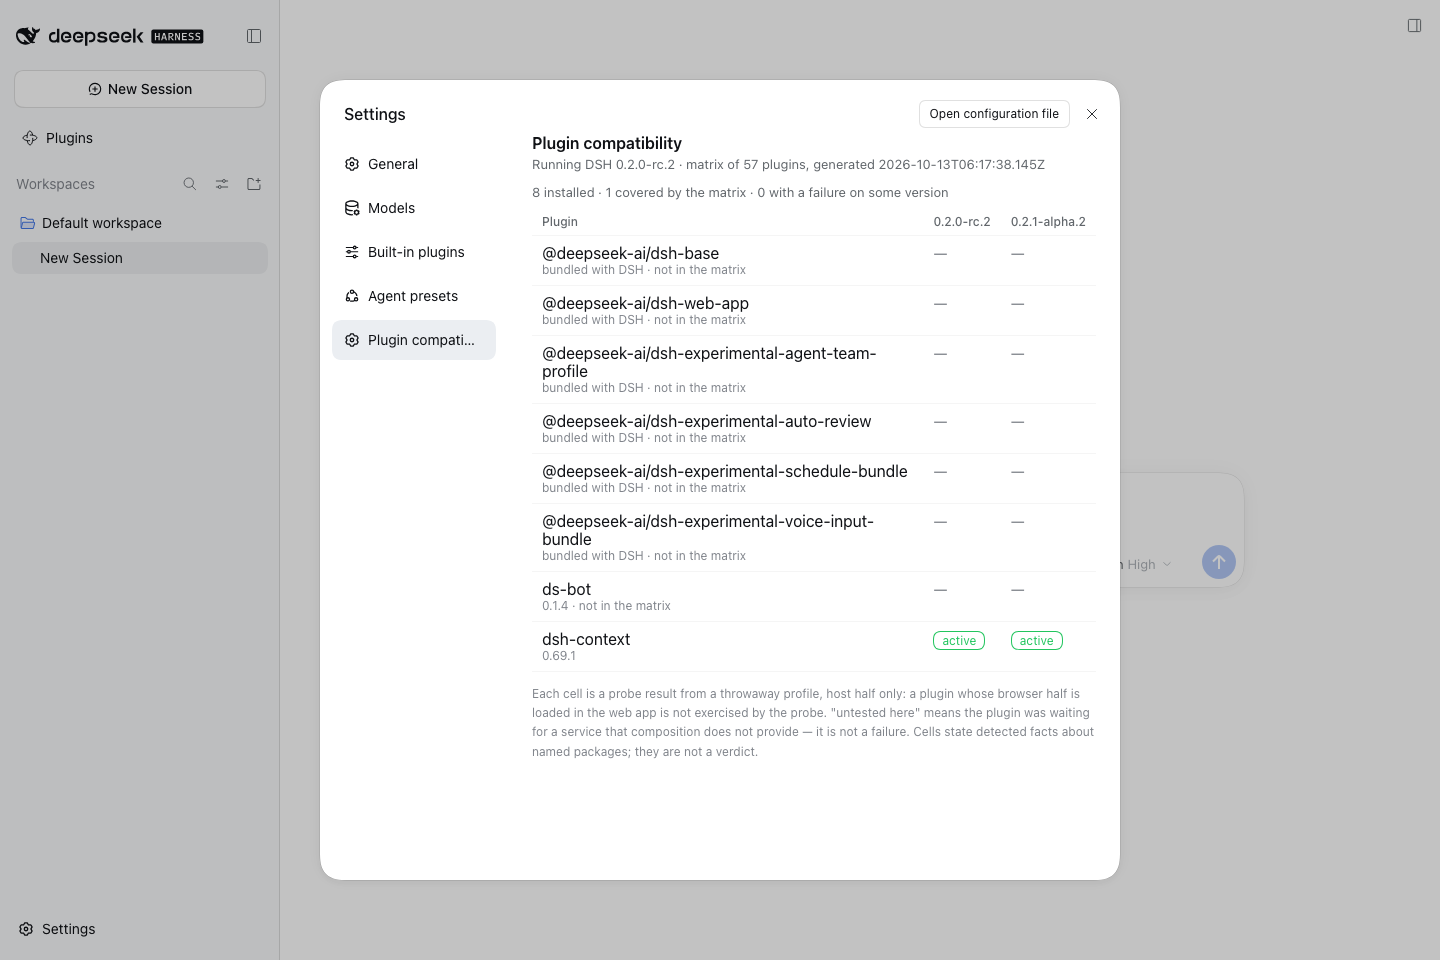
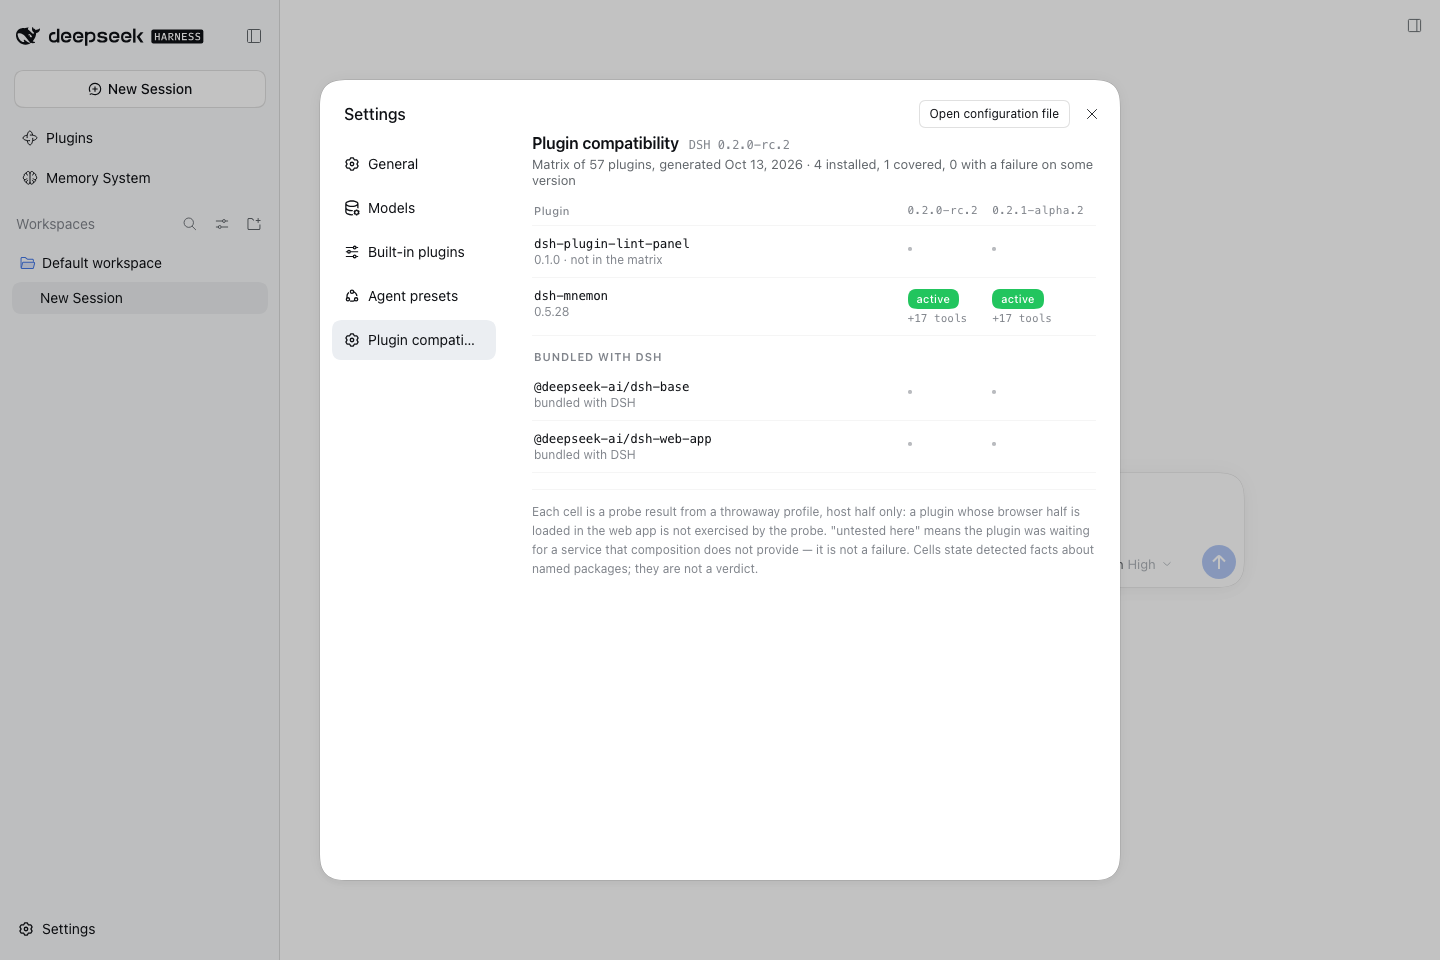
feat(panel): redesign the settings section, and fix two data bugs it revealed
Visual: the panel now reads as part of the settings page instead of a
pasted report — type weight and grey steps instead of boxed grid, a filled
pill for a verdict (the host's own weight for state), a 4px dot for
"not covered", a subdued "Bundled with DSH" group instead of a page of
identical dashes, and the machine timestamp formatted as a date.

Data, found by the redesign's own screenshots:

- DSH_PROFILE_DIR is contributed by dsh-shell-env, which a web composition
  does not mount, so the panel listed nothing. The directory is derivable
  from DSH_HOME + the launcher's --profile argument; the fallback does that.
- A plugin with a cell per composition showed no tool count: cellFor took
  the web cell, whose toolsAdded is always empty. Cells are now aggregated
  per version (most favourable verdict, matching the site generator) and
  the tool count is read from whichever composition recorded one.

The screenshot script gains --with <pkg> so the capture installs one
matrix-covered plugin alongside the panel — a profile holding only the
panel renders a table of dots.

diff --git a/panel/client.js b/panel/client.js
@@ -10,6 +10,11 @@
  * The component is wrapped in an error boundary: a throwing component blanks its
  * whole slot entry, and a blank settings page is a worse failure than an error
  * message.
+ *
+ * Visual grammar: the host settings page is a quiet white surface, so the panel
+ * is built from type weight and grey steps, not chrome — a filled pill for a
+ * verdict (the same weight the host gives its own state labels), a thin dot for
+ * "not covered", and one hairline under the header instead of a boxed grid.
  */
 window.__ModuleLoader__.load({
   id: 'dsh-plugin-lint-panel',
@@ -23,32 +28,60 @@ window.__ModuleLoader__.load({
       text: 'var(--dsw-alias-label-primary, currentColor)',
       secondary: 'var(--dsw-alias-label-secondary, currentColor)',
       tertiary: 'var(--dsw-alias-label-tertiary, currentColor)',
-      border: '1px solid var(--dsw-alias-border-l1, rgba(128,128,128,.35))',
-      surface: 'var(--dsw-alias-bg-layer-1, transparent)',
+      hairline: '1px solid var(--dsw-alias-border-l1, rgba(128,128,128,.18))',
+      surface: 'var(--dsw-alias-bg-layer-1, rgba(128,128,128,.06))',
+      mono: 'ui-monospace, SFMono-Regular, Menlo, Consolas, monospace',
     };
 
     const STATUS = {
       active: { color: 'var(--dsw-alias-state-success-primary, #1a7f37)', label: 'active' },
-      'awaiting-service': { color: 'var(--dsw-alias-state-warn-primary, #bf8700)', label: 'untested here' },
+      'awaiting-service': { color: 'var(--dsw-alias-state-warn-primary, #a35c00)', label: 'untested here' },
       'rejected-by-host': { color: 'var(--dsw-alias-state-error-primary, #cf222e)', label: 'refused by host' },
       'inactive-error': { color: 'var(--dsw-alias-state-error-primary, #cf222e)', label: 'failed to mount' },
       'boot-failed': { color: 'var(--dsw-alias-state-error-primary, #cf222e)', label: 'boot failed' },
-      'install-failed': { color: 'var(--dsw-alias-state-warn-primary, #bf8700)', label: 'install failed' },
+      'install-failed': { color: 'var(--dsw-alias-state-warn-primary, #a35c00)', label: 'install failed' },
     };
+
+    /** 2026-10-13T06:17:38.145Z -> Oct 13, 2026 — a date is read, a timestamp is not. */
+    function formatDate(iso) {
+      const time = Date.parse(iso || '');
+      if (!Number.isFinite(time)) return iso || 'unknown';
+      return new Date(time).toLocaleDateString(undefined, { year: 'numeric', month: 'short', day: 'numeric' });
+    }
 
     function pill(status, title) {
       const style = STATUS[status] || { color: T.tertiary, label: status || 'unknown' };
       return React.createElement('span', {
         title,
         style: {
-          display: 'inline-block', padding: '1px 8px', borderRadius: '999px',
-          border: '1px solid ' + style.color, color: style.color, fontSize: '12px', whiteSpace: 'nowrap',
+          display: 'inline-flex', alignItems: 'center', height: '20px', padding: '0 9px',
+          borderRadius: '999px', background: style.color, color: '#fff',
+          fontSize: '11px', fontWeight: 500, letterSpacing: '0.02em', whiteSpace: 'nowrap',
         },
       }, style.label);
     }
 
-    function cellFor(row, version) {
-      return (row.cells || []).find((c) => c.dsh === version);
+    /** A thin marker for "no cell" — quieter than a dash glyph at text size. */
+    function none() {
+      return React.createElement('span', {
+        title: 'not covered by the matrix',
+        style: { display: 'inline-block', width: '4px', height: '4px', borderRadius: '999px', background: T.tertiary, opacity: 0.55 },
+      });
+    }
+
+    /** All cells for one DSH version — a plugin may have one per composition. */
+    function cellsFor(row, version) {
+      return (row.cells || []).filter((c) => c.dsh === version);
+    }
+
+    /**
+     * The cell to show: the most favourable verdict, matching the site generator.
+     * "awaiting webServer" in headless and "active" in web are both true, and only
+     * together do they mean anything.
+     */
+    const RANK = { active: 0, 'awaiting-service': 1, 'rejected-by-host': 2, 'inactive-error': 3, 'boot-failed': 4, 'install-failed': 5 };
+    function bestCell(cells) {
+      return cells.slice().sort((a, b) => (RANK[a.status] ?? 9) - (RANK[b.status] ?? 9))[0];
     }
 
     function summary(data) {
@@ -69,62 +102,99 @@ window.__ModuleLoader__.load({
         return () => { alive = false; };
       }, []);
 
-      if (state.phase === 'loading') return React.createElement('div', { style: { color: T.secondary, padding: '16px 0' } }, 'Reading the matrix…');
-      if (state.phase === 'error') return React.createElement('div', { style: { color: T.text, padding: '16px 0' } }, 'Could not read the panel data: ' + state.error);
+      const quiet = { color: T.secondary, fontSize: '13px', padding: '16px 0' };
+      if (state.phase === 'loading') return React.createElement('div', { style: quiet }, 'Reading the matrix…');
+      if (state.phase === 'error') return React.createElement('div', { style: quiet }, 'Could not read the panel data: ' + state.error);
 
       const data = state.data || {};
-      if (data.ok === false) return React.createElement('div', { style: { color: T.text, padding: '16px 0' } }, 'Panel error: ' + data.error);
+      if (data.ok === false) return React.createElement('div', { style: quiet }, 'Panel error: ' + data.error);
       const versions = (data.matrix && data.matrix.dshVersions) || [];
       const s = summary(data);
 
-      const header = React.createElement('tr', null,
-        React.createElement('th', { style: th }, 'Plugin'),
-        versions.map((v) => React.createElement('th', { key: v, style: th }, v)));
+      // Community plugins carry the matrix cells, so they come first; the bundles
+      // the DSH installation provides are grouped under a subdued subhead instead
+      // of filling the table with identical dashes.
+      const all = data.rows || [];
+      const community = all.filter((r) => !r.firstParty);
+      const firstParty = all.filter((r) => r.firstParty);
+      const ordered = [...community, ...firstParty];
 
-      const body = (data.rows || []).map((row) => React.createElement('tr', { key: row.name },
+      const header = React.createElement('tr', null,
+        React.createElement('th', { style: { ...th, width: '100%' } }, 'Plugin'),
+        versions.map((v) => React.createElement('th', { key: v, style: { ...th, fontFamily: T.mono, fontWeight: 500 } }, v)));
+
+      const subhead = firstParty.length > 0 && community.length > 0
+        ? React.createElement('tr', { key: '__firstparty' },
+            React.createElement('td', {
+              colSpan: versions.length + 1,
+              style: { padding: '14px 2px 6px', color: T.tertiary, fontSize: '11px', fontWeight: 600, letterSpacing: '0.08em', textTransform: 'uppercase' },
+            }, 'Bundled with DSH'))
+        : null;
+
+      const rowOf = (row) => React.createElement('tr', { key: row.name },
         React.createElement('td', { style: td },
-          React.createElement('div', { style: { color: T.text } }, row.name),
-          React.createElement('div', { style: { color: T.tertiary, fontSize: '12px' } },
+          React.createElement('div', { style: { color: T.text, fontFamily: T.mono, fontSize: '12.5px', letterSpacing: '-0.01em' } }, row.name),
+          React.createElement('div', { style: { color: T.tertiary, fontSize: '12px', marginTop: '1px' } },
             (row.version || (row.providedBy === 'dsh-installation' ? 'bundled with DSH' : 'not installed'))
-            + (row.known ? '' : ' · not in the matrix'))),
+            + (row.known || row.firstParty ? '' : ' · not in the matrix'))),
         versions.map((v) => {
-          const cell = cellFor(row, v);
-          if (!cell) return React.createElement('td', { key: v, style: td }, React.createElement('span', { style: { color: T.tertiary } }, '—'));
-          const tools = (cell.toolsAdded || []).length;
+          const cells = cellsFor(row, v);
+          if (cells.length === 0) return React.createElement('td', { key: v, style: { ...td, textAlign: 'left' } }, none());
+          // The tool count lives in the headless cell; the web cell exercises the
+          // composition but never sends a model request. Read it from whichever
+          // composition recorded one.
+          const tools = Math.max(0, ...cells.map((c) => (c.toolsAdded || []).length));
+          const cell = bestCell(cells);
           const title = [cell.status, cell.trust, cell.reproduce].filter(Boolean).join(' · ');
           return React.createElement('td', { key: v, style: td },
             pill(cell.status, title),
-            tools ? React.createElement('div', { style: { color: T.secondary, fontSize: '12px', marginTop: '2px' } }, '+' + tools + ' tools') : null);
-        })));
+            tools ? React.createElement('div', { style: { color: T.tertiary, fontSize: '11px', marginTop: '3px', fontFamily: T.mono } }, '+' + tools + ' tools') : null);
+        }));
+
+      const bodyRows = [];
+      let subheadPlaced = false;
+      for (const row of ordered) {
+        if (subhead && !subheadPlaced && row.firstParty) {
+          bodyRows.push(subhead);
+          subheadPlaced = true;
+        }
+        bodyRows.push(rowOf(row));
+      }
 
       return React.createElement('div', { style: { color: T.text, maxWidth: '880px' } },
-        React.createElement('div', { style: { fontSize: '16px', fontWeight: 600 } }, LABEL),
-        React.createElement('div', { style: { color: T.secondary, fontSize: '13px', margin: '4px 0 12px' } },
-          'Running DSH ' + ((data.dsh && data.dsh.version) || 'unknown')
-          + ' · matrix of ' + ((data.matrix && data.matrix.plugins) || 0) + ' plugins, generated ' + ((data.matrix && data.matrix.generatedAt) || 'unknown')),
+        React.createElement('div', { style: { display: 'flex', alignItems: 'baseline', gap: '10px', flexWrap: 'wrap' } },
+          React.createElement('div', { style: { fontSize: '16px', fontWeight: 600, letterSpacing: '-0.01em' } }, LABEL),
+          React.createElement('div', { style: { color: T.tertiary, fontSize: '12px', fontFamily: T.mono } },
+            'DSH ' + ((data.dsh && data.dsh.version) || 'unknown'))),
+        React.createElement('div', { style: { color: T.secondary, fontSize: '13px', margin: '4px 0 16px' } },
+          'Matrix of ' + ((data.matrix && data.matrix.plugins) || 0) + ' plugins, generated ' + formatDate(data.matrix && data.matrix.generatedAt)
+          + ' · ' + s.total + ' installed, ' + s.known + ' covered, ' + s.atRisk + ' with a failure on some version'),
         data.profile && data.profile.error
-          ? React.createElement('div', { style: { color: T.secondary, fontSize: '13px', marginBottom: '8px' } }, data.profile.error)
+          ? React.createElement('div', { style: { ...quiet, padding: '0 0 8px' } }, data.profile.error)
           : null,
-        React.createElement('div', { style: { color: T.secondary, fontSize: '13px', marginBottom: '8px' } },
-          s.total + ' installed · ' + s.known + ' covered by the matrix · ' + s.atRisk + ' with a failure on some version'),
         React.createElement('table', { style: { borderCollapse: 'collapse', width: '100%' } },
           React.createElement('thead', null, header),
-          React.createElement('tbody', null, body)),
-        React.createElement('div', { style: { color: T.tertiary, fontSize: '12px', marginTop: '12px', lineHeight: 1.6 } },
+          React.createElement('tbody', null, bodyRows)),
+        React.createElement('div', {
+          style: { color: T.tertiary, fontSize: '12px', marginTop: '16px', paddingTop: '12px', borderTop: T.hairline, lineHeight: 1.6 },
+        },
           'Each cell is a probe result from a throwaway profile, host half only: a plugin whose browser half is loaded in the web app is not exercised by the probe. '
           + '"untested here" means the plugin was waiting for a service that composition does not provide — it is not a failure. '
           + 'Cells state detected facts about named packages; they are not a verdict.'));
     }
 
-    const th = { textAlign: 'left', padding: '6px 10px', borderBottom: T.border, color: T.secondary, fontWeight: 500, fontSize: '12px', whiteSpace: 'nowrap' };
-    const td = { padding: '8px 10px', borderBottom: T.border, verticalAlign: 'top' };
+    const th = {
+      textAlign: 'left', padding: '0 12px 8px 2px', borderBottom: T.hairline,
+      color: T.tertiary, fontWeight: 500, fontSize: '11px', letterSpacing: '0.04em', whiteSpace: 'nowrap',
+    };
+    const td = { padding: '10px 12px 10px 2px', borderBottom: T.hairline, verticalAlign: 'top' };
 
     class Boundary extends React.Component {
       constructor(props) { super(props); this.state = { error: undefined }; }
       static getDerivedStateFromError(error) { return { error }; }
       render() {
         if (this.state.error) {
-          return React.createElement('div', { style: { color: T.text, padding: '16px 0' } },
+          return React.createElement('div', { style: { color: T.text, fontSize: '13px', padding: '16px 0' } },
             'The compatibility panel failed to render: ' + String(this.state.error && this.state.error.message || this.state.error));
         }
         return this.props.children;

diff --git a/panel/index.js b/panel/index.js
@@ -51,9 +51,30 @@ function runningDshVersion() {
   return undefined;
 }
 
+/**
+ * The profile directory, with a fallback for compositions that do not expose it.
+ *
+ * DSH_PROFILE_DIR is contributed by dsh-shell-env, which is part of the shell
+ * surface: a web composition does not mount it, so the panel saw "not set"
+ * although the profile was right there. DSH_HOME is set for every profile, and
+ * the launcher was invoked with `--profile <name>`, so the directory is
+ * derivable: $DSH_HOME/profiles/<name>.
+ */
+function profileDir() {
+  if (process.env.DSH_PROFILE_DIR) return process.env.DSH_PROFILE_DIR;
+  const home = process.env.DSH_HOME;
+  if (!home) return undefined;
+  const argv = process.argv || [];
+  const i = argv.indexOf('--profile');
+  const name = i >= 0 ? argv[i + 1] : undefined;
+  if (!name || name.startsWith('-')) return undefined;
+  const dir = join(home, 'profiles', name);
+  return existsSync(join(dir, 'package.json')) ? dir : undefined;
+}
+
 /** Bundles this profile selected, with the version actually installed. */
 function installedBundles() {
-  const dir = process.env.DSH_PROFILE_DIR;
+  const dir = profileDir();
   if (!dir) return { error: 'DSH_PROFILE_DIR is not set, so the installed plugins cannot be listed' };
   const manifest = readJson(join(dir, 'package.json'));
   if (!manifest) return { error: 'no package.json in ' + dir };
